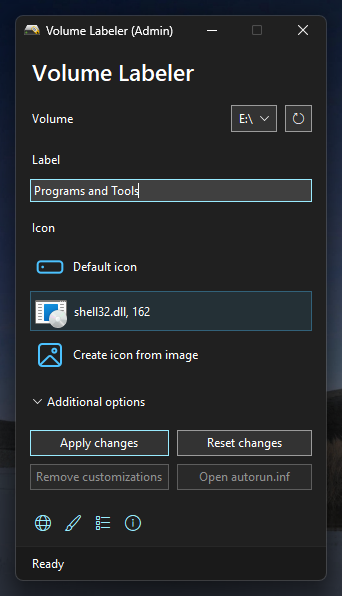
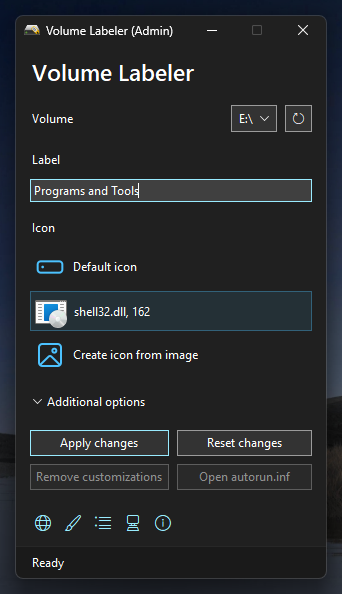
Update some assets and readme

diff --git a/README.md b/README.md
@@ -17,10 +17,15 @@
 
 A simple tool for changing the label and the icon of a volume in Windows. It makes these changes by creating an `autorun.inf` file (or edits the existing one) on the volume you want to change its label and icon. 
 
+![From -> To Image](assets//from_to_dark.png#gh-dark-mode-only)
+![From -> To Image](assets//from_to_light.png#gh-light-mode-only)
+
 ## ✨ Features
 - When selecting a volume, it checks if `autorun.inf` is present on it. It then retrieves its actual label and icon, so you don't have to type the same label if you only want to change the volume's icon or select the same icon if you only want to change the volume's label.
 
 - Multiple icon options: default icon, custom icon (`.ico` or from an `.exe`, `.dll` or `.icl` file) or icon from image (converts the selected image to an `.ico` file).
+
+- Refresh volume information in the File Explorer after applying the changes (requires running the app as administrator and not using the volume; doesn't work with the system drive)
 
 - Option to hide the `autorun.inf` file and the `vl_icon` folder (the icon is stored in that folder).
 
@@ -34,8 +39,8 @@ A simple tool for changing the label and the icon of a volume in Windows. It mak
 
 ## 📷 Screenshots
 
-| Light Mode | Dark Mode |
-|:----------:|:---------:|
+| ☀ Light Mode | 🌛 Dark Mode |
+|:------------:|:------------:|
 | ![Light mode](assets/screenshots/screenshot_light.png) | ![Dark mode](assets/screenshots/screenshot_dark.png) |
 
 ## ▶ Running from source
@@ -59,6 +64,7 @@ Also, you must build the app first before building the installer. After building
 
 ## 💿 Download
 At the moment, there are no stable realeses published. However, if you want to try unstable versions, you can check out the builds from [GitHub Actions](https://github.com/Valer100/Volume-Labeler/actions).
+
 <!-- Click [here](https://github.com/Valer100/Volume-Labeler/releases/latest) to download the latest version. You can download either the portable or the installer version.
 
 > [!WARNING]
